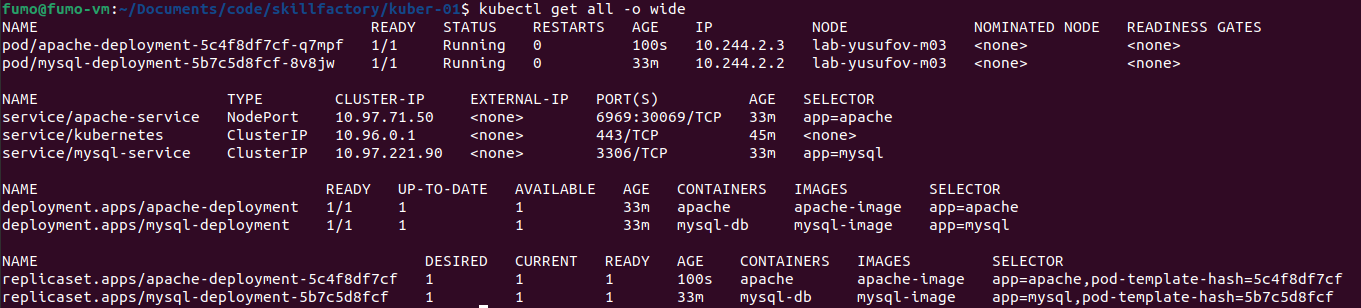
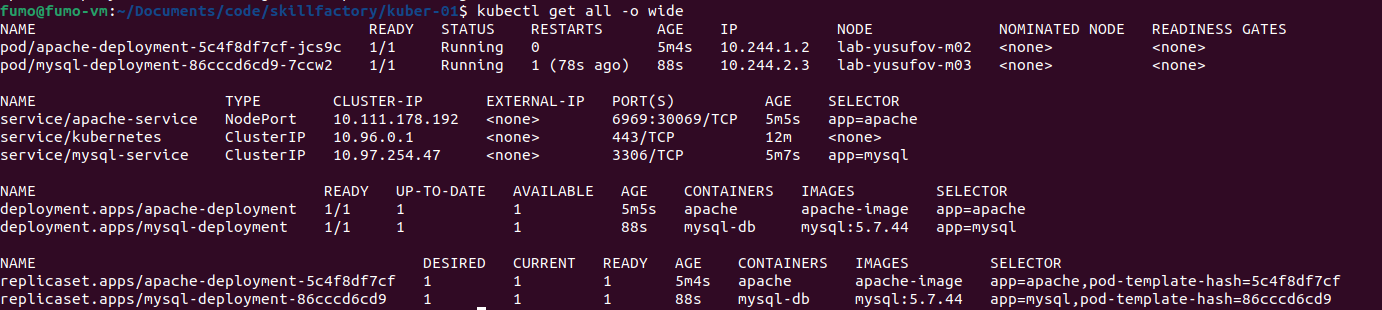
configmap

diff --git a/README.md b/README.md
@@ -14,10 +14,10 @@ cluster lab-yusufov (3 nodes)
 |       |-- OS Linux
 |       |-- Apache Web-server + PHP (see apache-docker-file)
 |-- lab-yusufov-m03 (node)
-|   |-- pod/mysql-deployment (IP:10.244.2.2)
+|   |-- pod/mysql-deployment (IP:10.244.2.3)
 |       |-- OS Linux
 |       |-- MySQL database (see mysql-docker-file)
 |-- service/kubernetes ClusterIP 10.96.0.1 443/TCP (cluster node)
-|-- service/apache-service NodePort 10.97.71.50 6969:30069/TCP (apache)
-|-- service/mysql-service ClusterIP 10.97.221.90 3306/TCP (mysql)
+|-- service/apache-service NodePort 10.111.178.192 6969:30069/TCP (apache)
+|-- service/mysql-service ClusterIP 10.97.254.47 3306/TCP (mysql)
 
